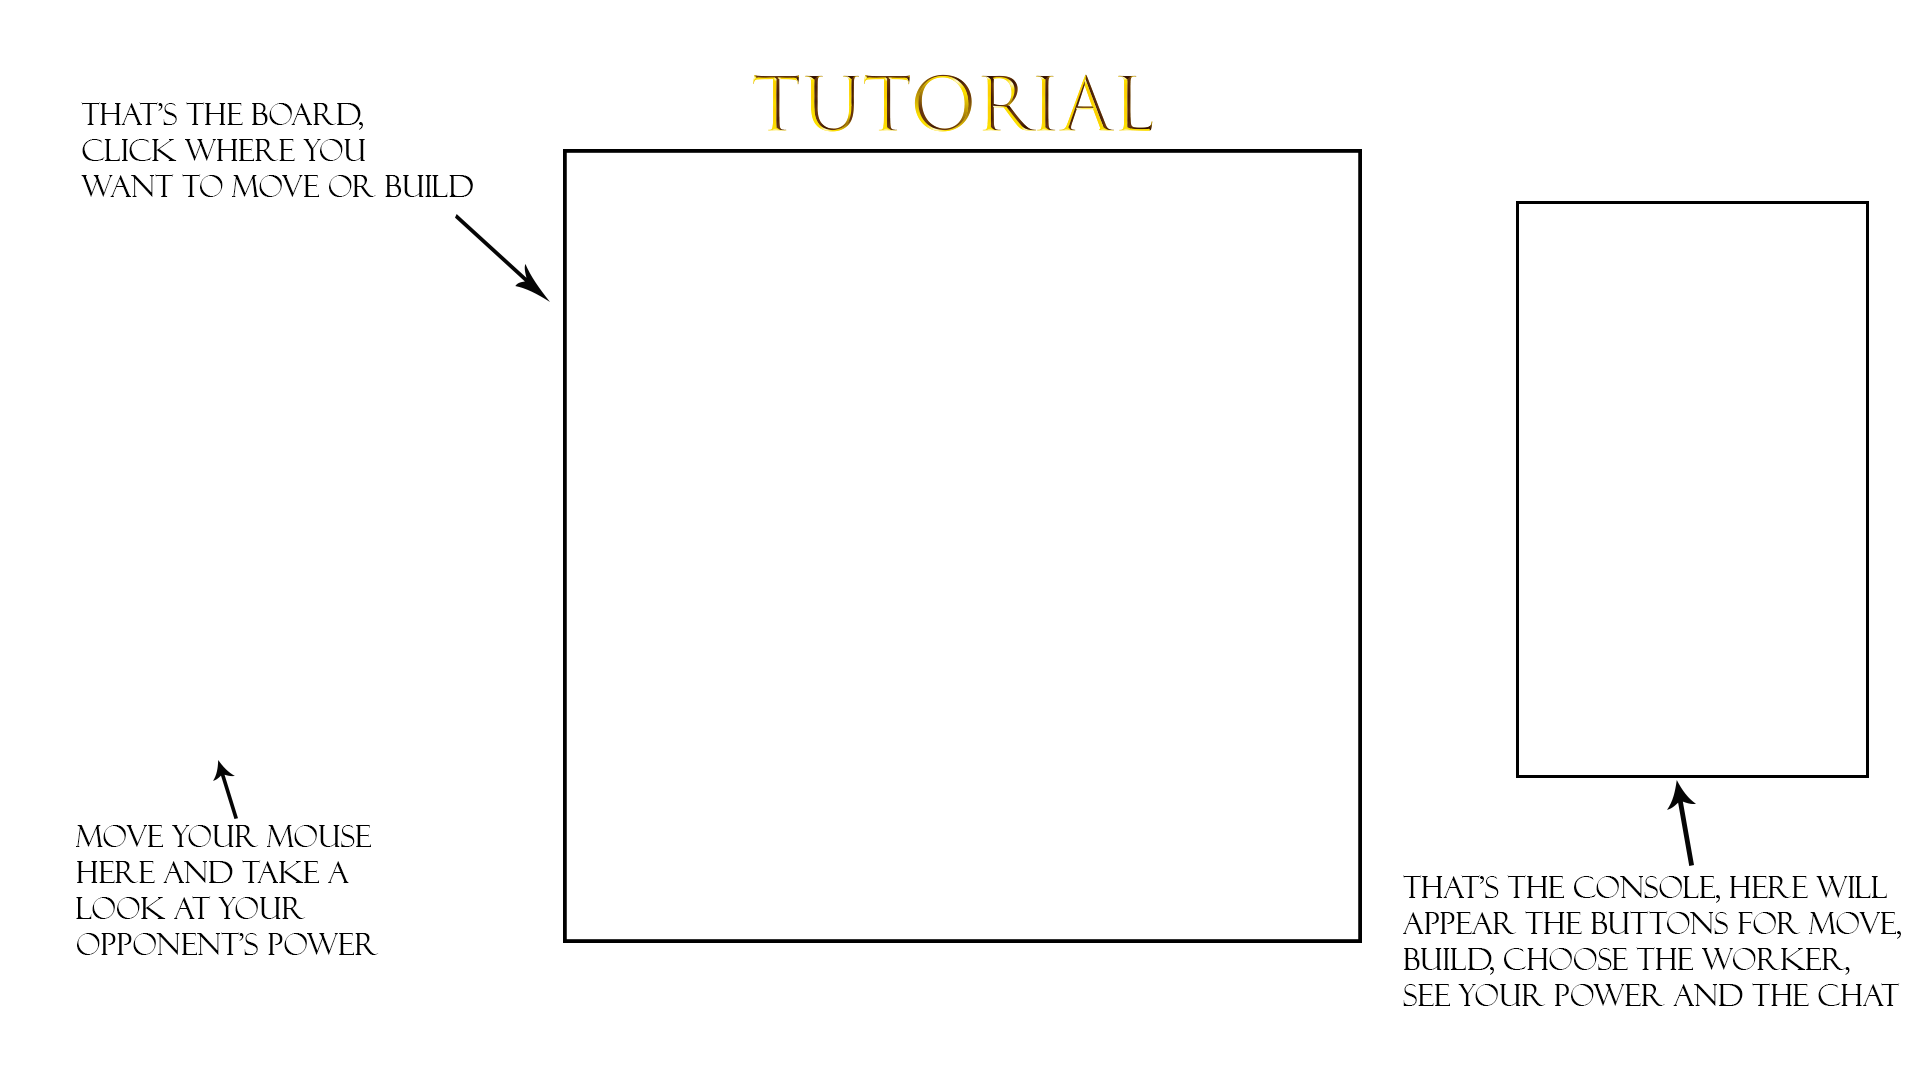
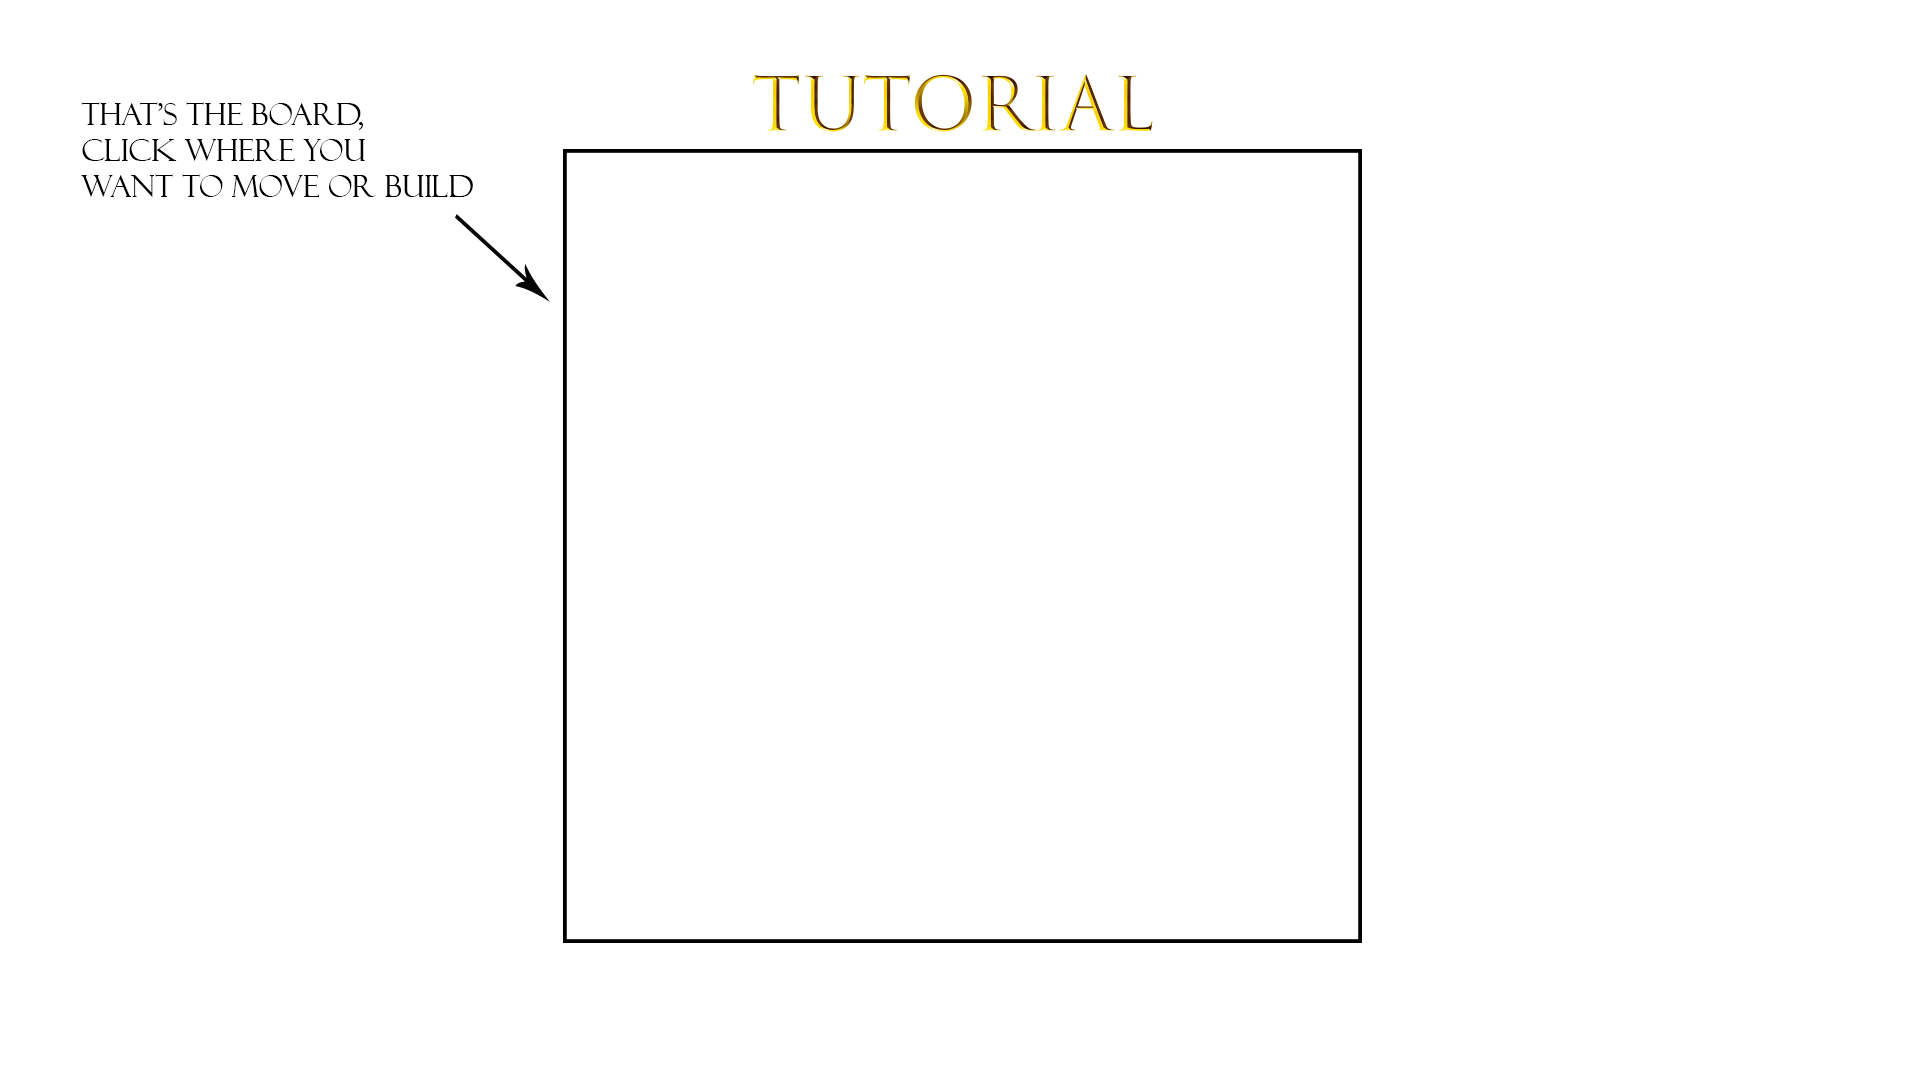
Tutorial in più schermate

diff --git a/src/main/java/it/polimi/ingsw/view/client/gui/Board.java b/src/main/java/it/polimi/ingsw/view/client/gui/Board.java
@@ -61,6 +61,7 @@ public class Board extends Observable {
     MyButton newGame = new MyButton(2);
     MyButton close = new MyButton(3);
     MyButton closeTutorial = new MyButton(3);
+    MyButton continueTutorial = new MyButton(5);
     MyButton keepWatching = new MyButton(4);
     JButton buttonLvl1 = new JButton();
     JButton buttonLvl2 = new JButton();
@@ -80,6 +81,8 @@ public class Board extends Observable {
     JButton backgroundFrameBuildings = new JButton();
     JButton sfondoFramePower = new JButton();
     JButton tutorial = new JButton();
+    JButton tutorial1 = new JButton();
+    JButton tutorial2 = new JButton();
     JButton leftBoard = new JButton();
     JButton leftGod = new JButton();
     JButton winLose = new JButton();
@@ -180,6 +183,8 @@ public class Board extends Observable {
     JLabel lLoser2 = null;
     JLabel lGlow;
     JLabel lTutorial;
+    JLabel lTutorial1;
+    JLabel lTutorial2;
     JLabel llost = new JLabel();
     Dimension frameSize = new Dimension();
     Dimension boardSize = new Dimension();
@@ -344,6 +349,8 @@ public class Board extends Observable {
         border = ImageHandler.setImage(LOSEBORDER, 100, 100, frameSize.width * 50/100, frameSize.height * 80/100);
         lGlow = ImageHandler.setImage("resources/Graphics/gods/podium/glow.png", 100, 100, frameSize.width * 15/100, frameSize.height * 35/100);
         lTutorial = ImageHandler.setImage("resources/Graphics/tutorial.png", 100, 100, frameSize.width, frameSize.height);
+        lTutorial1 = ImageHandler.setImage("resources/Graphics/tutorial1.png", 100, 100, frameSize.width, frameSize.height);
+        lTutorial2 = ImageHandler.setImage("resources/Graphics/tutorial2.png", 100, 100, frameSize.width, frameSize.height);
 
         loopSound = new MP3("resources/Music/Atlantis.mp3");
         click = new MP3("resources/Music/Click.mp3");
@@ -416,9 +423,13 @@ public class Board extends Observable {
         keepWatching.setBounds((int) ((frameSize.width * 50/100) - (buttonSize.width / 2)), (int) (frameSize.height * 79.5 / 100), (int) buttonSize.width, buttonSize.height);
         keepWatching.setVisible(false);
         keepWatching.addActionListener(new KeepWatching());
-        closeTutorial.setBounds((int) ((frameSize.width * 50/100) - (buttonSize.width / 2)), (int) (frameSize.height * 79.5 / 100), (int) buttonSize.width, buttonSize.height);
+
+        closeTutorial.setBounds((int) ((frameSize.width * 40/100) - (buttonSize.width / 2)), (int) (frameSize.height * 79.5 / 100), (int) buttonSize.width, buttonSize.height);
         closeTutorial.setVisible(false);
         closeTutorial.addActionListener(new CloseTutorial());
+        continueTutorial.setBounds((int) ((frameSize.width * 58/100) - (buttonSize.width / 2)), (int) (frameSize.height * 79.5 / 100), (int) buttonSize.width, buttonSize.height);
+        continueTutorial.setVisible(false);
+        continueTutorial.addActionListener(new ContinueTutorial());
 
         tutorial.setBounds(-7,-22, frameSize.width, frameSize.height);
         tutorial.setOpaque(false);
@@ -426,6 +437,20 @@ public class Board extends Observable {
         tutorial.setBorderPainted(false);
         tutorial.setIcon(lTutorial.getIcon());
         tutorial.setVisible(false);
+
+        tutorial1.setBounds(-7,-22, frameSize.width, frameSize.height);
+        tutorial1.setOpaque(false);
+        tutorial1.setContentAreaFilled(false);
+        tutorial1.setBorderPainted(false);
+        tutorial1.setIcon(lTutorial1.getIcon());
+        tutorial1.setVisible(false);
+
+        tutorial2.setBounds(-7,-22, frameSize.width, frameSize.height);
+        tutorial2.setOpaque(false);
+        tutorial2.setContentAreaFilled(false);
+        tutorial2.setBorderPainted(false);
+        tutorial2.setIcon(lTutorial2.getIcon());
+        tutorial2.setVisible(false);
 
         winner.setBounds((int) (frameSize.width * 39/100),frameSize.height * 20/100, frameSize.width * 30/100, frameSize.height * 50/100);
         winner.setOpaque(false);
@@ -529,7 +554,6 @@ public class Board extends Observable {
         backButton.addActionListener(new BackLevel());
 
 
-
         chat.setBounds(frameChat.getWidth() * 23/100 , frameChat.getHeight() * 28/100, frameChat.getWidth() * 63/100, frameChat.getHeight() * 38/100);
         chat.setEditable(false);
         chat.setBackground(new Color(232, 222, 208));
@@ -559,8 +583,6 @@ public class Board extends Observable {
 
         chatStyleButtons(backgroundFrameChat, coverChat);
         frameChat.getContentPane().add(backgroundFrameChat);
-
-
 
         chatStyleButtons(backgroundFrameBuildings, coverBuildings);
         frameBuildings.getContentPane().add(backgroundFrameBuildings);
@@ -788,7 +810,10 @@ public class Board extends Observable {
         }
 
         desktopPane.add(closeTutorial);
+        desktopPane.add(continueTutorial);
         desktopPane.add(tutorial);
+        desktopPane.add(tutorial1);
+        desktopPane.add(tutorial2);
         desktopPane.add(newGame);
         desktopPane.add(close);
         desktopPane.add(keepWatching);
@@ -1135,6 +1160,7 @@ public class Board extends Observable {
             internalFrameChallenger1.getContentPane().add(youChosen);
             tutorial.setVisible(true);
             closeTutorial.setVisible(true);
+            continueTutorial.setVisible(true);
             buttonChooseCards.setVisible(true);
             labelChooseCards.setVisible(true);
             buttonChooseCards.addActionListener(new ChooseCards());
@@ -1153,6 +1179,7 @@ public class Board extends Observable {
             internalFrameChallenger1.getContentPane().add(waitChallenger);
             tutorial.setVisible(true);
             closeTutorial.setVisible(true);
+            continueTutorial.setVisible(true);
         }
     }
 
@@ -2389,8 +2416,27 @@ public class Board extends Observable {
         @Override
         public void actionPerformed(ActionEvent e) {
             tutorial.setVisible(false);
+            tutorial1.setVisible(false);
+            tutorial2.setVisible(false);
             closeTutorial.setVisible(false);
+            continueTutorial.setVisible(false);
             internalFrameChallenger1.setVisible(true);
+        }
+    }
+
+    private class ContinueTutorial implements ActionListener{
+        @Override
+        public void actionPerformed(ActionEvent e) {
+            if (tutorial.isVisible()){
+                tutorial.setVisible(false);
+                tutorial1.setVisible(true);
+            }
+            else if (tutorial1.isVisible()){
+                tutorial1.setVisible(false);
+                tutorial2.setVisible(true);
+                continueTutorial.setVisible(false);
+                closeTutorial.setBounds((int) ((frameSize.width * 50/100) - (buttonSize.width / 2)), (int) (frameSize.height * 79.5 / 100), (int) buttonSize.width, buttonSize.height);
+            }
         }
     }
 

diff --git a/src/main/java/it/polimi/ingsw/view/client/gui/MyButton.java b/src/main/java/it/polimi/ingsw/view/client/gui/MyButton.java
@@ -23,6 +23,8 @@ public class MyButton extends JButton{
     JLabel lclosePress;
     JLabel lkeep;
     JLabel lkeepPress;
+    JLabel lcontinue;
+    JLabel lcontinuePress;
     transient MP3 click = new MP3("resources/Music/Click.mp3");
 
     public MyButton(int n) {
@@ -39,6 +41,8 @@ public class MyButton extends JButton{
             lclosePress = ImageHandler.setImage("resources/Graphics/button_close_press.png", 100, 100, labelSize.width, labelSize.height);
             lkeep = ImageHandler.setImage("resources/Graphics/button_keep.png", 100, 100, labelSize.width, labelSize.height);
             lkeepPress = ImageHandler.setImage("resources/Graphics/button_keep_press.png", 100, 100, labelSize.width, labelSize.height);
+            lcontinue = ImageHandler.setImage("resources/Graphics/button_continue.png", 100, 100, labelSize.width, labelSize.height);
+            lcontinuePress = ImageHandler.setImage("resources/Graphics/button_continue_press.png", 100, 100, labelSize.width, labelSize.height);
         } catch (IOException e) {
             LOGGER.severe(e.getMessage());
         }
@@ -68,6 +72,10 @@ public class MyButton extends JButton{
 
             case 4:
                 setIcon(lkeep.getIcon());
+                break;
+
+            case 5:
+                setIcon(lcontinue.getIcon());
                 break;
 
             default:
@@ -101,6 +109,10 @@ public class MyButton extends JButton{
                     setIcon(lkeepPress.getIcon());
                     break;
 
+                case 5:
+                    setIcon(lcontinuePress.getIcon());
+                    break;
+
                 default:
             }
 
@@ -128,6 +140,10 @@ public class MyButton extends JButton{
 
                 case 4:
                     setIcon(lkeep.getIcon());
+                    break;
+
+                case 5:
+                    setIcon(lcontinue.getIcon());
                     break;
 
                 default:

diff --git a/src/main/java/it/polimi/ingsw/view/client/gui/PopUp.java b/src/main/java/it/polimi/ingsw/view/client/gui/PopUp.java
@@ -44,6 +44,7 @@ public class PopUp {
     public JPanel lobbyPopUp(int n){
         window.removeAll();
         window.setLayout(null);
+        //window.setSize(intFrameSize);
         switch (n){
             case 0:
                 button1 = new MyButton(0);
@@ -132,8 +133,8 @@ public class PopUp {
 
                 setDisconnectionTime();
 
-                back = backgroundButton(2);
-                back.setBounds(0, 0, intFrameSize.width * 50/100, intFrameSize.height * 50/100);
+                //back = backgroundButton(2);
+                back.setBounds(0, 0, intFrameSize.width, intFrameSize.height);
                 window.add(back);
                 break;
 
